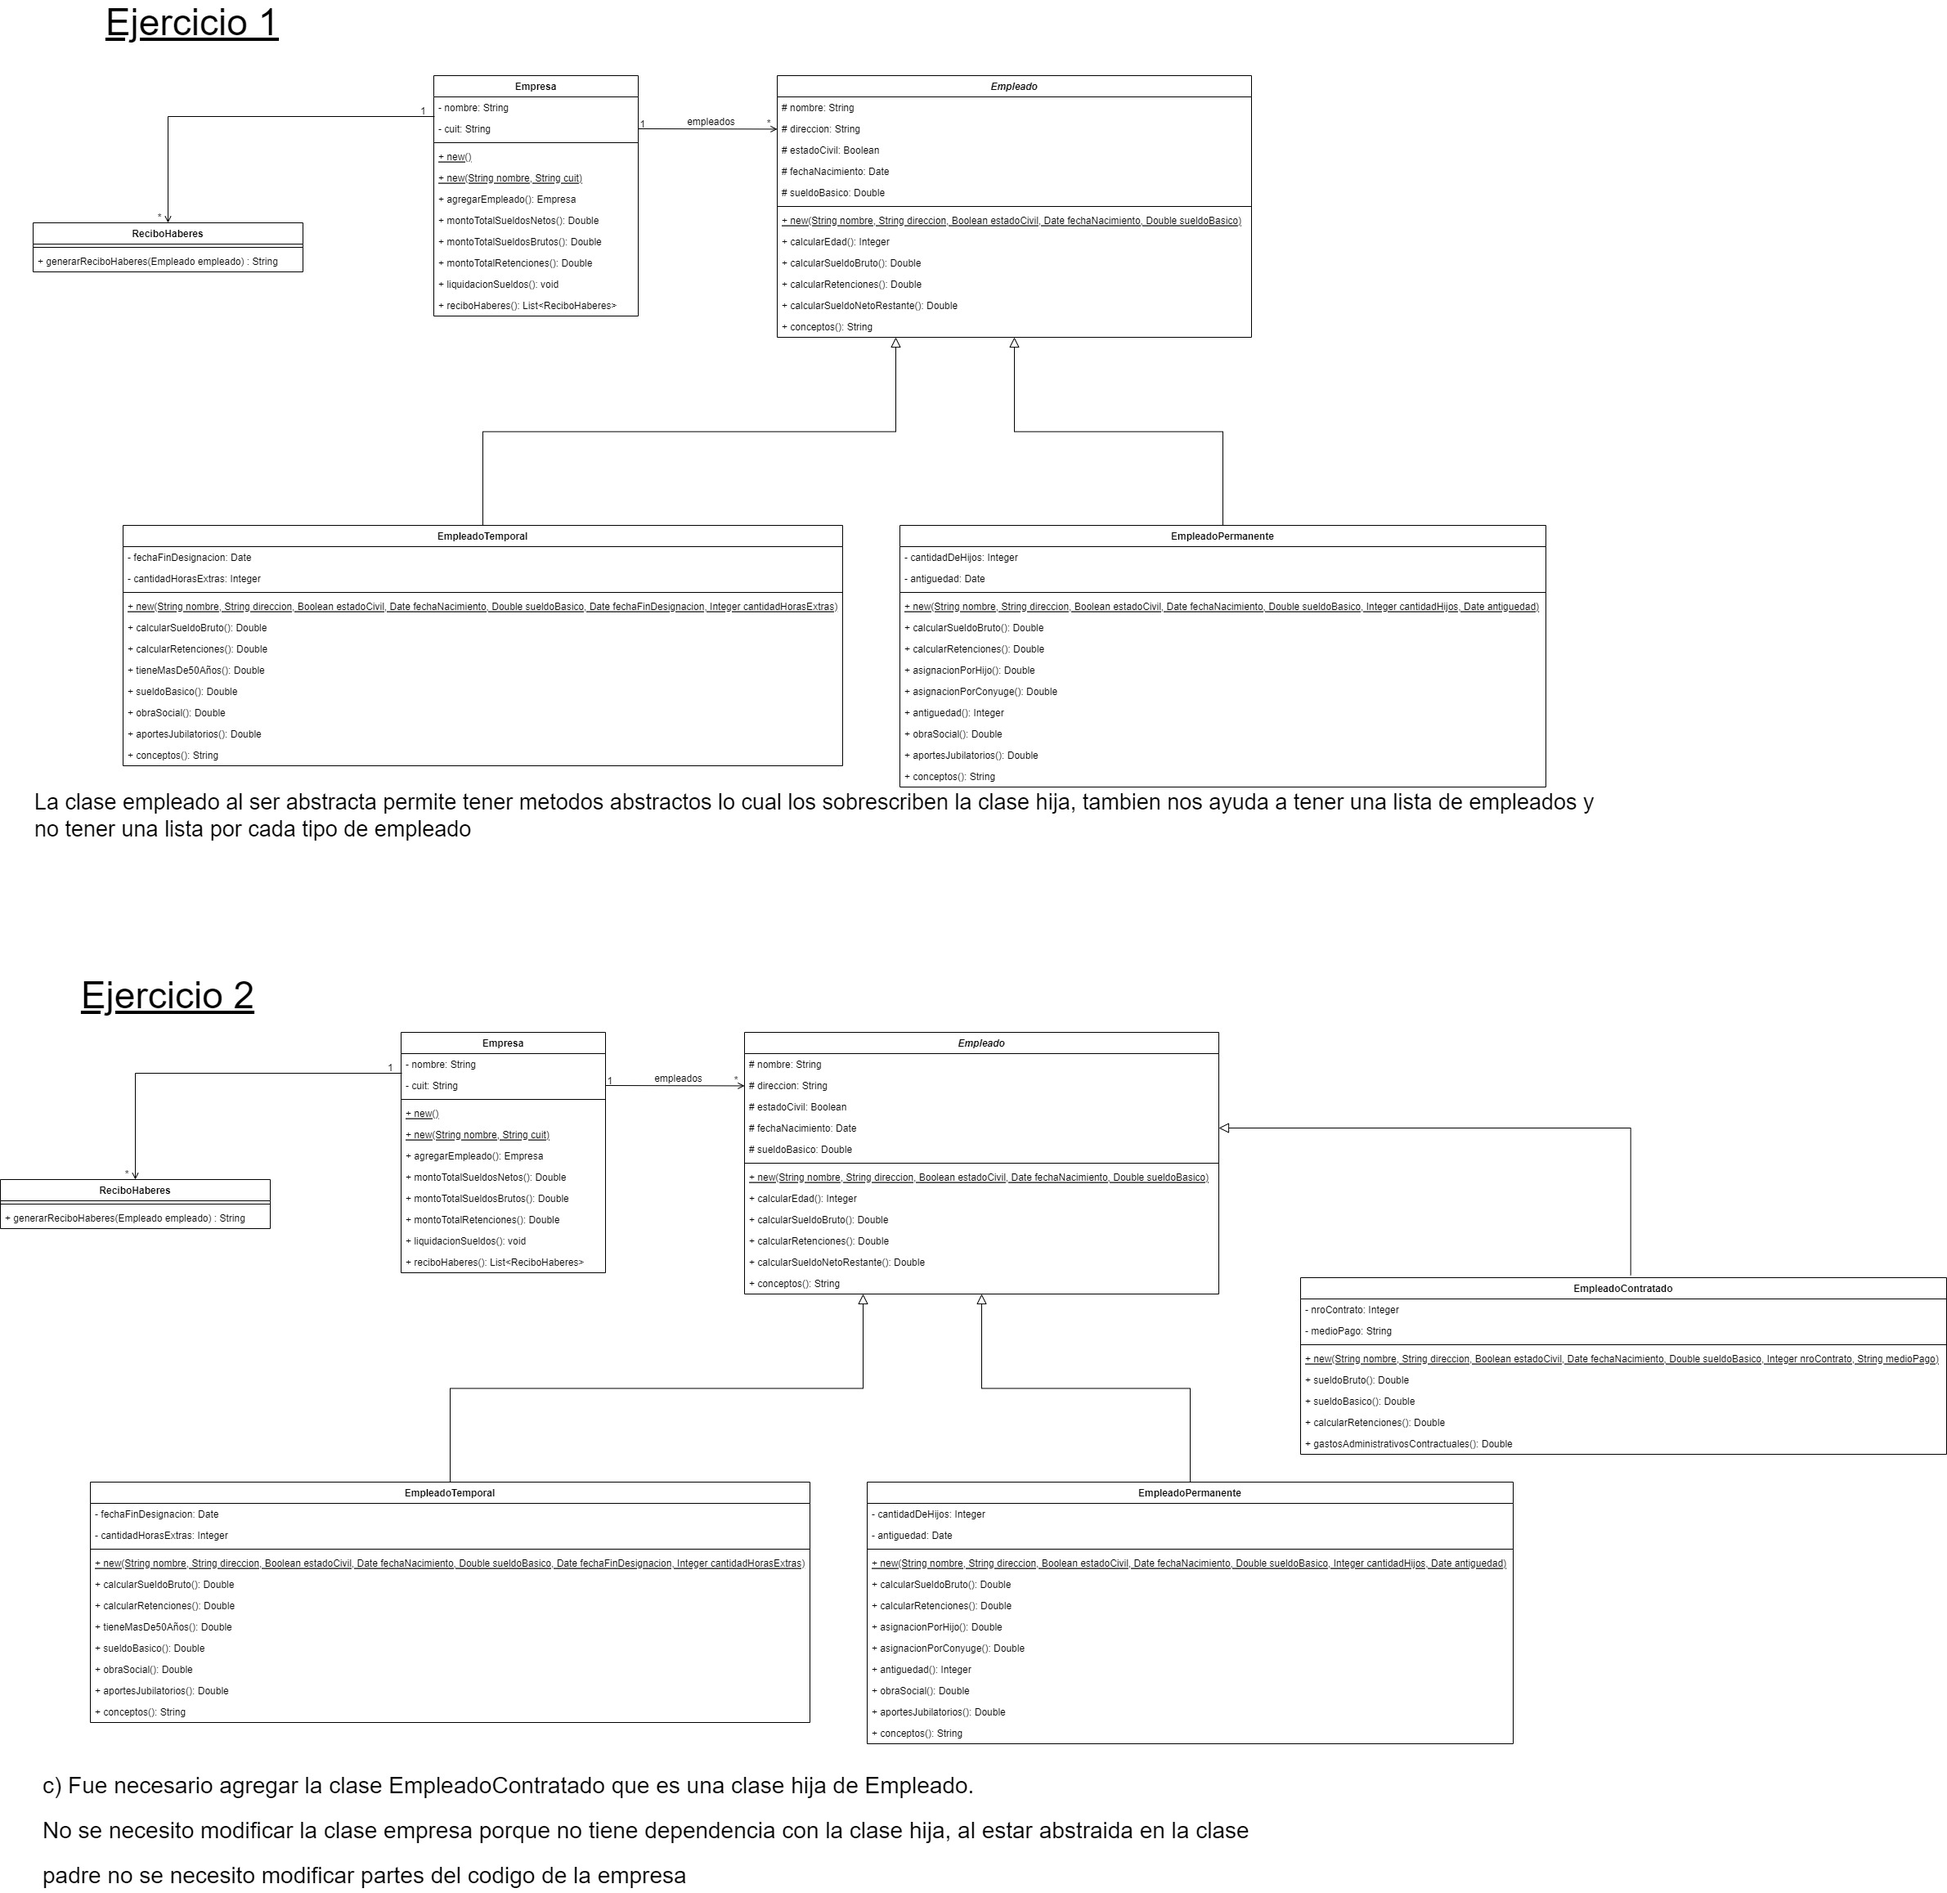
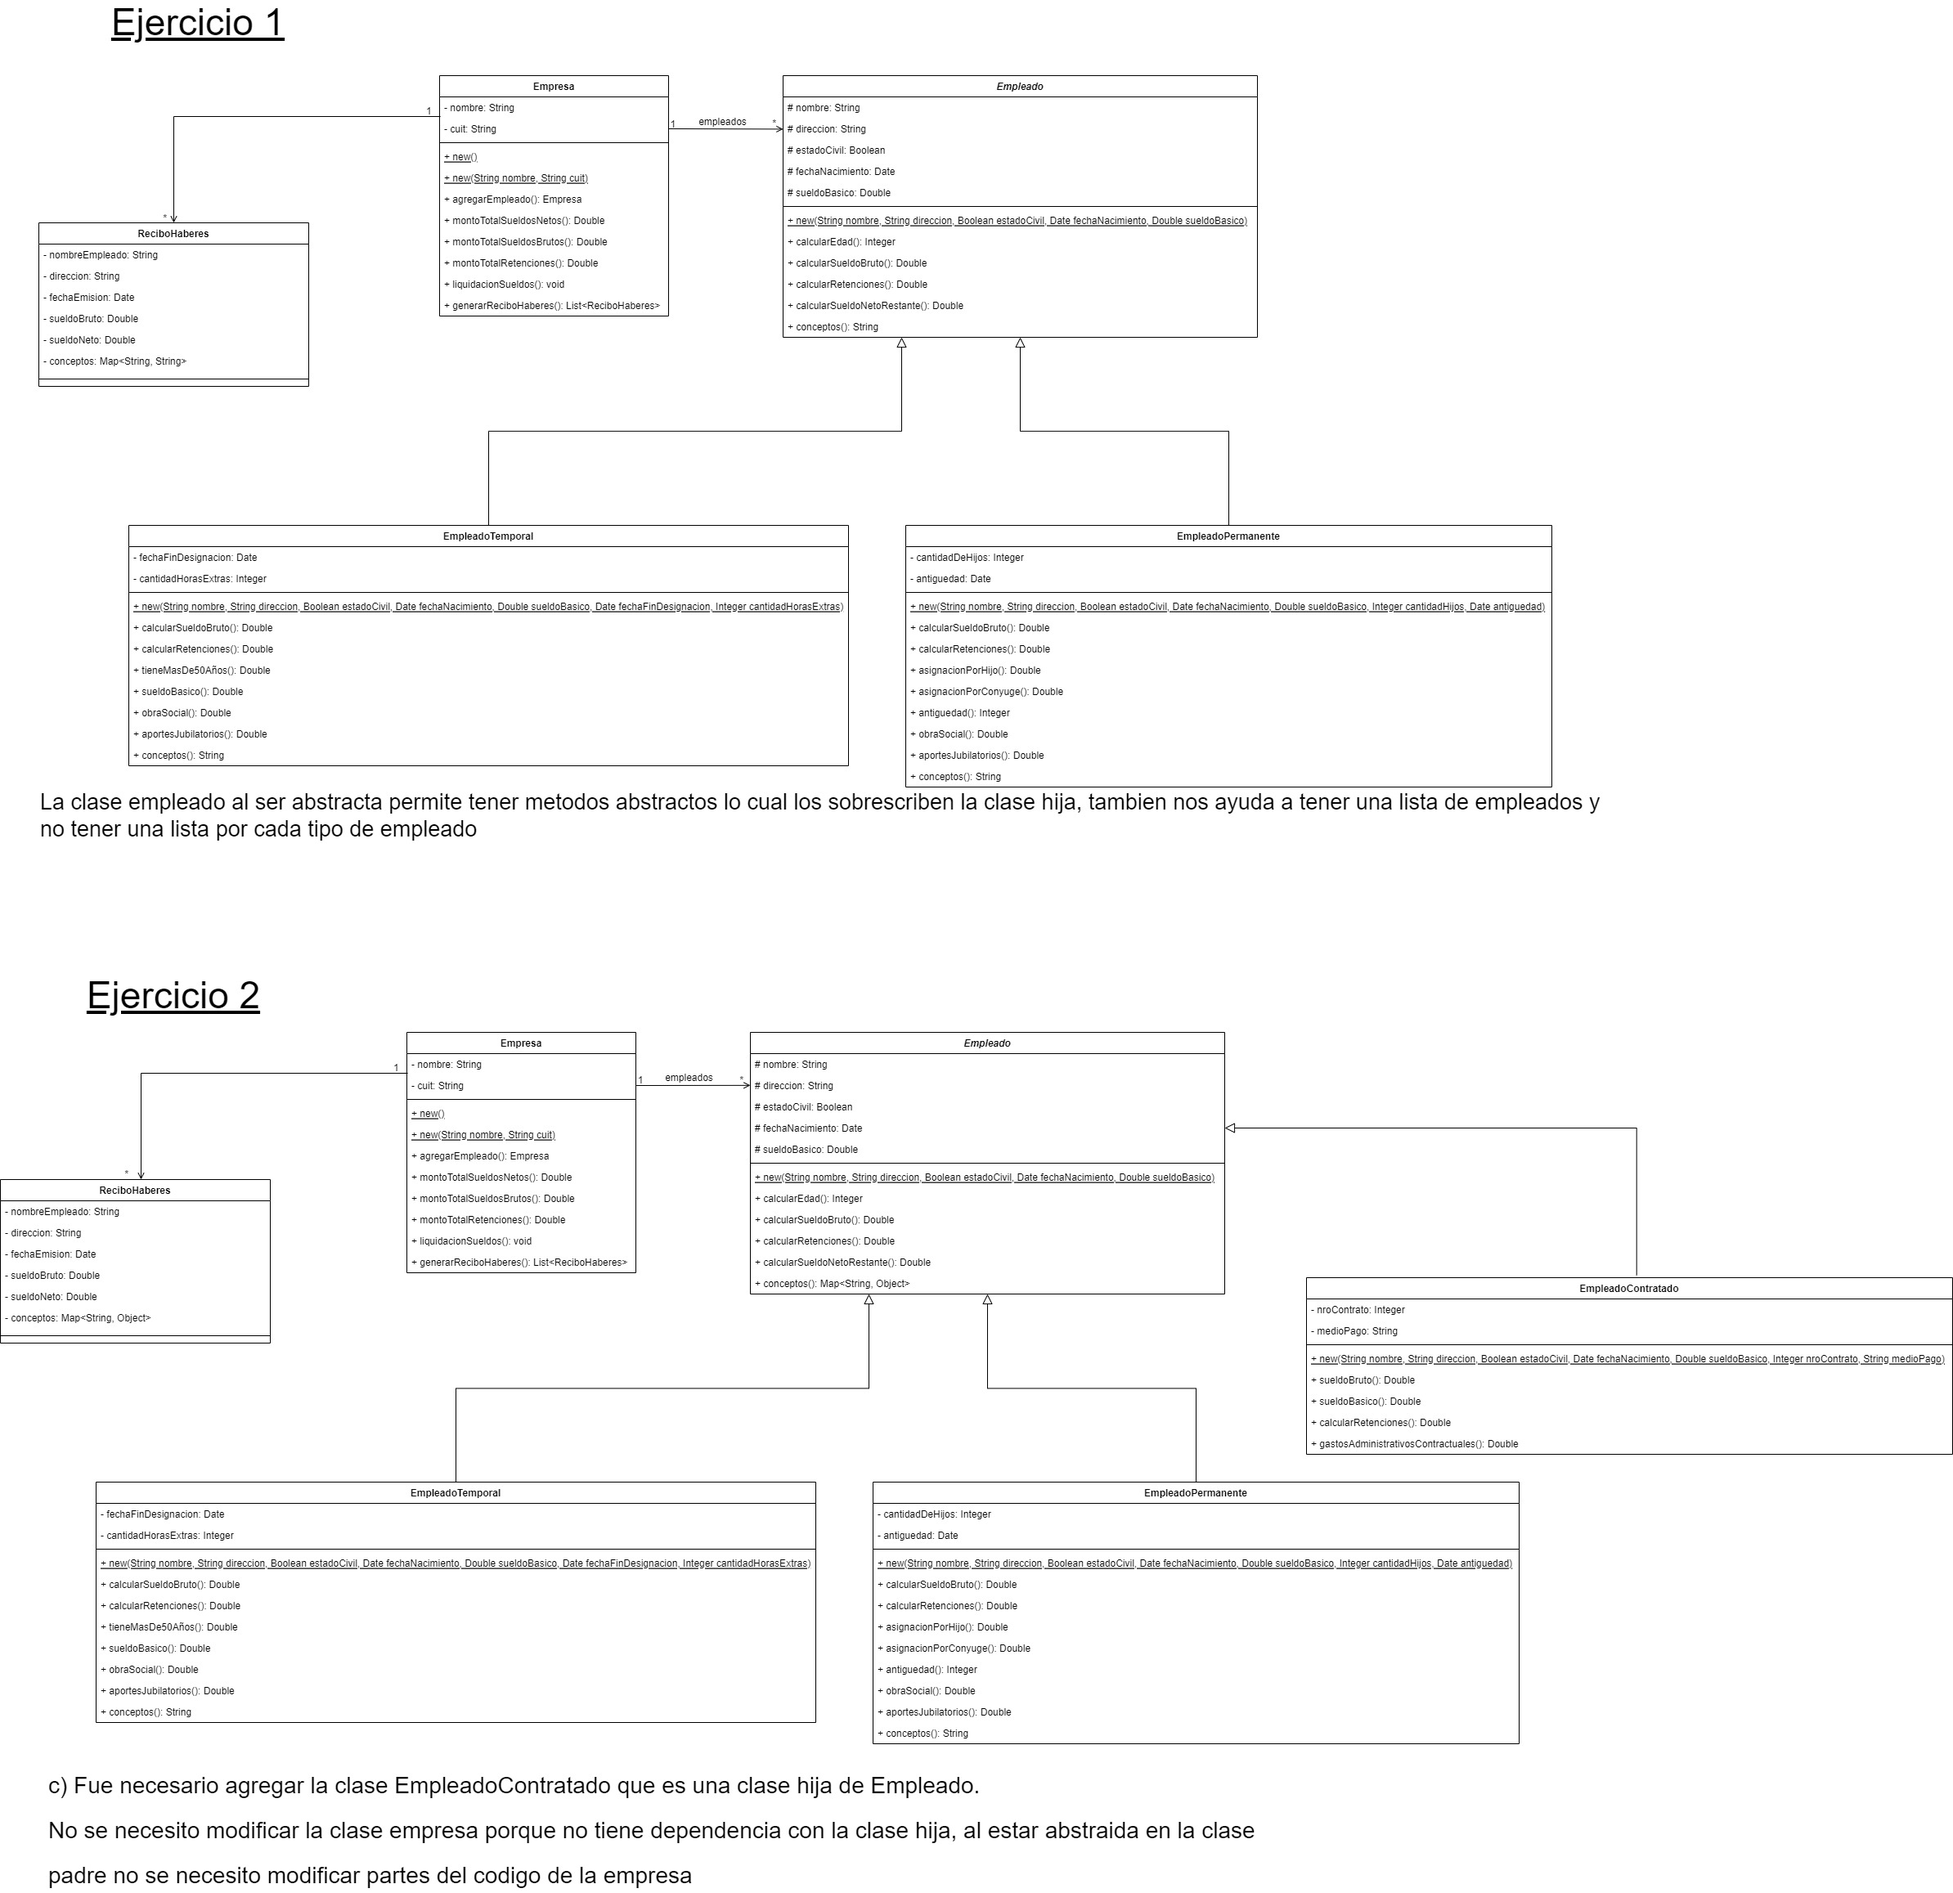
tp2

diff --git a/TP02/TP2-Java/src/tp2/ejercicio2/models/ReciboHaberes.java b/TP02/TP2-Java/src/tp2/ejercicio2/models/ReciboHaberes.java
@@ -1,20 +1,23 @@
 package tp2.ejercicio2.models;
 
+import java.util.Date;
+import java.util.Map;
+
 public class ReciboHaberes {
-    private Empleado empleado;
+    private String nombreEmpleado;
+    private String direccion;
+    private Date fechaEmision;
+    private Double sueldoBruto;
+    private Double sueldoNeto;
+    private Map<String, Object> conceptos;
 
-    public ReciboHaberes(Empleado empleado) {
-        this.empleado = empleado;
-    }
-
-    @Override
-    public String toString() {
-        return "ReciboHaberes{" +
-                "\nnombreEmpleado='" + empleado.nombre + '\'' +
-                ", \ndireccion='" + empleado.direccion + '\'' +
-                ", \nsueldoBruto=" + empleado.calcularSueldoBruto() +
-                ", \nsueldoNeto=" + empleado.calcularSueldoNetoRestante() +
-                ", \ndesgloseConceptos='" + empleado.getConceptos() + '\'' +
-                '}' + "\n";
+    public ReciboHaberes generarReciboHaberes(Empleado empleado) {
+        this.nombreEmpleado = empleado.nombre;
+        this.direccion = empleado.direccion;
+        this.fechaEmision = new Date();
+        this.sueldoBruto = empleado.calcularSueldoBruto();
+        this.sueldoNeto = empleado.calcularSueldoNetoRestante();
+        this.conceptos = empleado.getConceptos();
+        return this;
     }
 }

diff --git a/TP02/TP2-Java/src/tp2/ejercicio2/models/EmpleadoPermanente.java b/TP02/TP2-Java/src/tp2/ejercicio2/models/EmpleadoPermanente.java
@@ -1,6 +1,8 @@
 package tp2.ejercicio2.models;
 
 import java.util.Date;
+import java.util.HashMap;
+import java.util.Map;
 
 public class EmpleadoPermanente extends Empleado {
     private Integer cantidadHijos;
@@ -43,12 +45,14 @@ public class EmpleadoPermanente extends Empleado {
         return (calcularSueldoBruto() * 0.15);
     }
 
-    public String getConceptos() {
-        return "Sueldo Basico: " + this.sueldoBasico +
-                " || Asignacion por hijo: " + asignacionPorHijo() +
-                " || Asignacion por conyuge: " + asignacionPorConyuge() +
-                " || Antiguedad: " + antiguedad() +
-                " || Obra Social: " + obraSocial() +
-                " || Aportes Jubilatorios: " + aportesJubilatorios() + "\n";
+    public Map<String, Object> getConceptos() {
+        Map<String, Object> conceptos = new HashMap<>();
+        conceptos.put("Sueldo Basico", this.sueldoBasico);
+        conceptos.put("Asignacion por hijo", asignacionPorHijo());
+        conceptos.put("Asignacion por conyuge", asignacionPorConyuge());
+        conceptos.put("Antiguedad", antiguedad());
+        conceptos.put("Obra Social", obraSocial());
+        conceptos.put("Aportes Jubilatorios", aportesJubilatorios());
+        return conceptos;
     }
 }

diff --git a/TP02/TP2-Java/src/tp2/ejercicio1/models/EmpleadoPermanente.java b/TP02/TP2-Java/src/tp2/ejercicio1/models/EmpleadoPermanente.java
@@ -1,6 +1,8 @@
 package tp2.ejercicio1.models;
 
 import java.util.Date;
+import java.util.HashMap;
+import java.util.Map;
 
 public class EmpleadoPermanente extends Empleado {
     private Integer cantidadHijos;
@@ -43,12 +45,14 @@ public class EmpleadoPermanente extends Empleado {
         return (calcularSueldoBruto() * 0.15);
     }
 
-    public String getConceptos() {
-        return "Sueldo Basico: " + this.sueldoBasico +
-                " || Asignacion por hijo: " + asignacionPorHijo() +
-                " || Asignacion por conyuge: " + asignacionPorConyuge() +
-                " || Antiguedad: " + antiguedad() +
-                " || Obra Social: " + obraSocial() +
-                " || Aportes Jubilatorios: " + aportesJubilatorios();
+    public Map<String, Object> getConceptos() {
+        Map<String, Object> conceptos = new HashMap<>();
+        conceptos.put("Sueldo Basico", this.sueldoBasico);
+        conceptos.put("Asignacion por hijo", asignacionPorHijo());
+        conceptos.put("Asignacion por conyuge", asignacionPorConyuge());
+        conceptos.put("Antiguedad", antiguedad());
+        conceptos.put("Obra Social", obraSocial());
+        conceptos.put("Aportes Jubilatorios", aportesJubilatorios());
+        return conceptos;
     }
 }

diff --git a/TP02/TP2-Java/src/tp2/ejercicio1/models/ReciboHaberes.java b/TP02/TP2-Java/src/tp2/ejercicio1/models/ReciboHaberes.java
@@ -1,13 +1,24 @@
 package tp2.ejercicio1.models;
 
+import java.util.Date;
+import java.util.HashMap;
+import java.util.Map;
+
 public class ReciboHaberes {
-    public String generarReciboHaberes(Empleado empleado) {
-        return "ReciboHaberes{" +
-                "\nnombreEmpleado='" + empleado.nombre + '\'' +
-                ", \ndireccion='" + empleado.direccion + '\'' +
-                ", \nsueldoBruto=" + empleado.calcularSueldoBruto() +
-                ", \nsueldoNeto=" + empleado.calcularSueldoNetoRestante() +
-                ", \ndesgloseConceptos='" + empleado.getConceptos() + '\'' +
-                '}' + "\n";
+    private String nombreEmpleado;
+    private String direccion;
+    private Date fechaEmision;
+    private Double sueldoBruto;
+    private Double sueldoNeto;
+    private Map<String, Object> conceptos;
+
+    public ReciboHaberes generarReciboHaberes(Empleado empleado) {
+        this.nombreEmpleado = empleado.nombre;
+        this.direccion = empleado.direccion;
+        this.fechaEmision = new Date();
+        this.sueldoBruto = empleado.calcularSueldoBruto();
+        this.sueldoNeto = empleado.calcularSueldoNetoRestante();
+        this.conceptos = empleado.getConceptos();
+        return this;
     }
 }

diff --git a/TP02/TP2-Java/src/tp2/ejercicio2/models/EmpleadoTemporal.java b/TP02/TP2-Java/src/tp2/ejercicio2/models/EmpleadoTemporal.java
@@ -1,6 +1,8 @@
 package tp2.ejercicio2.models;
 
 import java.util.Date;
+import java.util.HashMap;
+import java.util.Map;
 
 public class EmpleadoTemporal extends Empleado {
     private Date fechaFinDesignacion;
@@ -40,9 +42,11 @@ public class EmpleadoTemporal extends Empleado {
         return (calcularSueldoBruto() * 0.1) + (this.cantidadHorasExtras * 5);
     }
 
-    public String getConceptos() {
-        return "Sueldo Basico: " + sueldoBasico() +
-                " || Obra Social: " + obraSocial() +
-                " || Aportes Jubilatorios: " + aportesJubilatorios() + "\n";
+    public Map<String, Object> getConceptos() {
+        Map<String, Object> conceptos = new HashMap<>();
+        conceptos.put("Sueldo Basico", sueldoBasico());
+        conceptos.put("Obra Social", obraSocial());
+        conceptos.put("Aportes Jubilatorios", aportesJubilatorios());
+        return conceptos;
     }
 }

diff --git a/TP02/TP2-Java/src/tp2/ejercicio1/models/EmpleadoTemporal.java b/TP02/TP2-Java/src/tp2/ejercicio1/models/EmpleadoTemporal.java
@@ -1,6 +1,8 @@
 package tp2.ejercicio1.models;
 
 import java.util.Date;
+import java.util.HashMap;
+import java.util.Map;
 
 public class EmpleadoTemporal extends Empleado {
     private Date fechaFinDesignacion;
@@ -40,9 +42,11 @@ public class EmpleadoTemporal extends Empleado {
         return (calcularSueldoBruto() * 0.1) + (this.cantidadHorasExtras * 5);
     }
 
-    public String getConceptos() {
-        return "Sueldo Basico: " + sueldoBasico() +
-                " || Obra Social: " + obraSocial() +
-                " || Aportes Jubilatorios: " + aportesJubilatorios();
+    public Map<String, Object> getConceptos() {
+        Map<String, Object> conceptos = new HashMap<>();
+        conceptos.put("Sueldo Basico", sueldoBasico());
+        conceptos.put("Obra Social", obraSocial());
+        conceptos.put("Aportes Jubilatorios", aportesJubilatorios());
+        return conceptos;
     }
 }

diff --git a/TP02/TP2-Java/src/tp2/ejercicio2/models/EmpleadoContratado.java b/TP02/TP2-Java/src/tp2/ejercicio2/models/EmpleadoContratado.java
@@ -1,6 +1,8 @@
 package tp2.ejercicio2.models;
 
 import java.util.Date;
+import java.util.HashMap;
+import java.util.Map;
 
 public class EmpleadoContratado extends Empleado {
     private Integer nroContrato;
@@ -23,9 +25,11 @@ public class EmpleadoContratado extends Empleado {
     }
 
     @Override
-    public String getConceptos() {
-        return "Sueldo Basico: " + this.sueldoBasico +
-                " || Gastos Administrativos Contractuales: " + gastosAdministrativosContractuales() + "\n";
+    public Map<String, Object> getConceptos() {
+        Map<String, Object> conceptos = new HashMap<>();
+        conceptos.put("Sueldo Basico", this.sueldoBasico);
+        conceptos.put("Gastos Administrativos Contractuales", gastosAdministrativosContractuales());
+        return conceptos;
     }
 
     private Double gastosAdministrativosContractuales() {

diff --git a/TP02/TP2-Java/src/tp2/ejercicio2/models/Empresa.java b/TP02/TP2-Java/src/tp2/ejercicio2/models/Empresa.java
@@ -45,12 +45,9 @@ public class Empresa {
 
     public void liquidacionSueldos() {
         for (Empleado e: empleados) {
-            ReciboHaberes reciboHaberes = new ReciboHaberes(e);
+            ReciboHaberes reciboHaberes = new ReciboHaberes();
+            reciboHaberes.generarReciboHaberes(e);
             this.reciboHaberes.add(reciboHaberes);
         }
-    }
-
-    public List<ReciboHaberes> getReciboHaberes() {
-        return reciboHaberes;
     }
 }

diff --git a/TP02/TP2-Java/src/tp2/ejercicio1/models/Empleado.java b/TP02/TP2-Java/src/tp2/ejercicio1/models/Empleado.java
@@ -1,6 +1,7 @@
 package tp2.ejercicio1.models;
 
 import java.util.Date;
+import java.util.Map;
 
 public abstract class Empleado {
     protected String nombre;
@@ -30,5 +31,5 @@ public abstract class Empleado {
         return calcularSueldoBruto() - calcularRetenciones();
     }
 
-    public abstract String getConceptos();
+    public abstract Map<String, Object> getConceptos();
 }

diff --git a/TP02/TP2-Java/src/tp2/ejercicio2/models/Empleado.java b/TP02/TP2-Java/src/tp2/ejercicio2/models/Empleado.java
@@ -1,6 +1,7 @@
 package tp2.ejercicio2.models;
 
 import java.util.Date;
+import java.util.Map;
 
 public abstract class Empleado {
     protected String nombre;
@@ -30,5 +31,5 @@ public abstract class Empleado {
         return calcularSueldoBruto() - calcularRetenciones();
     }
 
-    public abstract String getConceptos();
+    public abstract Map<String, Object> getConceptos();
 }

diff --git a/TP02/TP2-Java/src/tp2/ejercicio1/models/Empresa.java b/TP02/TP2-Java/src/tp2/ejercicio1/models/Empresa.java
@@ -50,8 +50,4 @@ public class Empresa {
             this.reciboHaberes.add(reciboHaberes);
         }
     }
-
-    public List<ReciboHaberes> getReciboHaberes() {
-        return reciboHaberes;
-    }
 }
